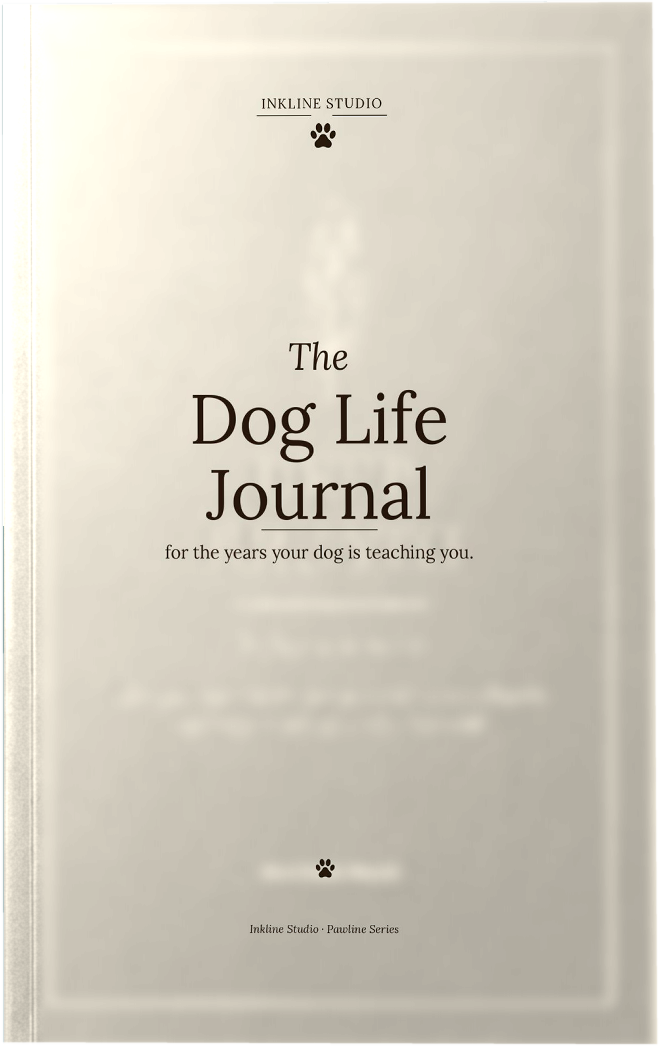
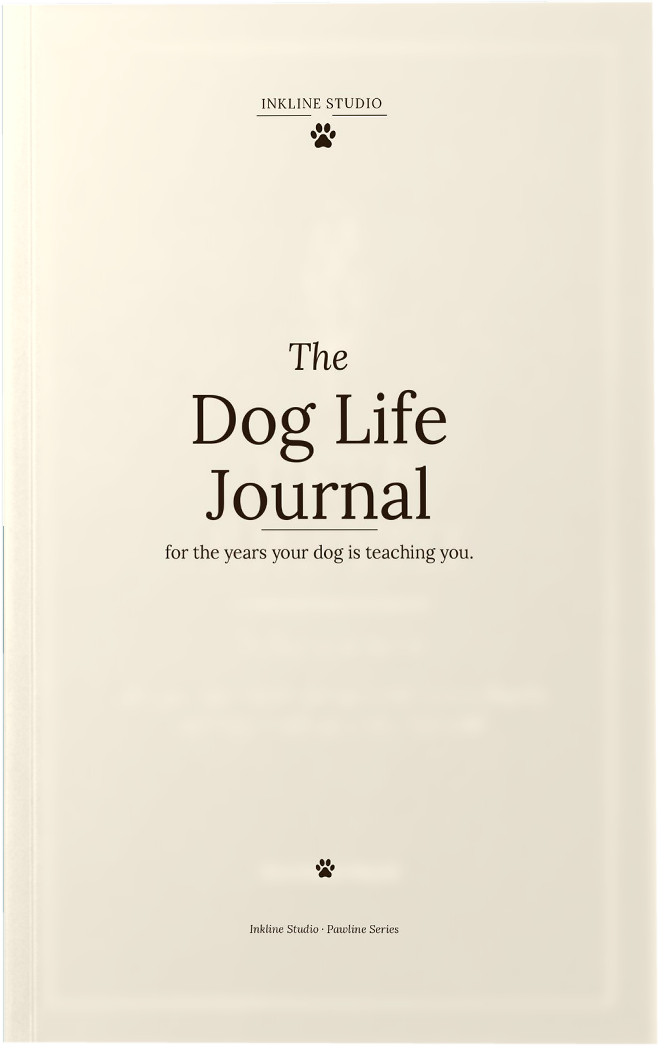
Fix washed-out Pawline covers (cut glare on light covers) + page shadow; add Tinderwick look-inside with real sample jokes

diff --git a/index.html b/index.html
@@ -338,6 +338,8 @@
   .book{ transition: transform .45s cubic-bezier(.2,.7,.2,1); }
   .book:hover{ transform: translateY(-12px); }
   .book-cover img{ transition: filter .45s ease, transform .45s cubic-bezier(.2,.7,.2,1) !important; }
+  /* gentle permanent shadow so covers (esp. pale cream Pawline ones) lift off the cream page */
+  .book-cover img{ filter: drop-shadow(0 13px 20px rgba(27,34,64,0.15)); }
   .book:hover .book-cover img{ filter: drop-shadow(0 30px 44px rgba(27,34,64,0.30)); }
   /* smoother tab-panel entrance */
   .tab-panel.active{ animation: panelIn .6s cubic-bezier(.2,.7,.2,1) both; }
@@ -795,35 +797,50 @@
       <p class="gift-note">The gift that gets a laugh</p>
       <div class="books-grid">
         <div class="book">
-          <div class="book-cover"><img src="images/tinderwick-nurse-3d.png" alt="101 Things Only Nurses Will Find Funny"></div>
+          <div class="book-cover clickable" onclick="openLb('t-nurse')">
+            <img src="images/tinderwick-nurse-3d.png" alt="101 Things Only Nurses Will Find Funny">
+            <div class="peek-hint"><svg width="11" height="11" viewBox="0 0 12 12" fill="none"><circle cx="6" cy="6" r="5" stroke="#F5EFE0" stroke-width="1.2"/><line x1="6" y1="3" x2="6" y2="9" stroke="#F5EFE0" stroke-width="1.2"/><line x1="3" y1="6" x2="9" y2="6" stroke="#F5EFE0" stroke-width="1.2"/></svg><span>Peek inside</span></div>
+          </div>
           <h3>101 Things Only Nurses Will Find Funny</h3>
           <p class="book-hook">For the nurses who carry a lot and deserve to laugh about it.</p>
           <div class="meta">Paperback &middot; &pound;9.99</div>
           <a href="https://www.amazon.co.uk/dp/B0H8SQ6QM7" target="_blank" rel="noopener">Find on Amazon &rarr;</a>
         </div>
         <div class="book">
-          <div class="book-cover"><img src="images/tinderwick-doctor-3d.png" alt="101 Things Only Doctors Will Find Funny"></div>
+          <div class="book-cover clickable" onclick="openLb('t-doctor')">
+            <img src="images/tinderwick-doctor-3d.png" alt="101 Things Only Doctors Will Find Funny">
+            <div class="peek-hint"><svg width="11" height="11" viewBox="0 0 12 12" fill="none"><circle cx="6" cy="6" r="5" stroke="#F5EFE0" stroke-width="1.2"/><line x1="6" y1="3" x2="6" y2="9" stroke="#F5EFE0" stroke-width="1.2"/><line x1="3" y1="6" x2="9" y2="6" stroke="#F5EFE0" stroke-width="1.2"/></svg><span>Peek inside</span></div>
+          </div>
           <h3>101 Things Only Doctors Will Find Funny</h3>
           <p class="book-hook">For everyone who has survived an on-call rota.</p>
           <div class="meta">Paperback &middot; &pound;9.99</div>
           <a href="https://www.amazon.co.uk/dp/B0H8SL6ZH2" target="_blank" rel="noopener">Find on Amazon &rarr;</a>
         </div>
         <div class="book">
-          <div class="book-cover"><img src="images/tinderwick-police-3d.png" alt="101 Things Only Police Officers Will Find Funny"></div>
+          <div class="book-cover clickable" onclick="openLb('t-police')">
+            <img src="images/tinderwick-police-3d.png" alt="101 Things Only Police Officers Will Find Funny">
+            <div class="peek-hint"><svg width="11" height="11" viewBox="0 0 12 12" fill="none"><circle cx="6" cy="6" r="5" stroke="#F5EFE0" stroke-width="1.2"/><line x1="6" y1="3" x2="6" y2="9" stroke="#F5EFE0" stroke-width="1.2"/><line x1="3" y1="6" x2="9" y2="6" stroke="#F5EFE0" stroke-width="1.2"/></svg><span>Peek inside</span></div>
+          </div>
           <h3>101 Things Only Police Officers Will Find Funny</h3>
           <p class="book-hook">For everyone who has survived a night shift.</p>
           <div class="meta">Paperback &middot; &pound;9.99</div>
           <a href="https://www.amazon.co.uk/dp/B0H8SKT2T8" target="_blank" rel="noopener">Find on Amazon &rarr;</a>
         </div>
         <div class="book">
-          <div class="book-cover"><img src="images/tinderwick-paramedic-3d.png" alt="101 Things Only Paramedics Will Find Funny"></div>
+          <div class="book-cover clickable" onclick="openLb('t-paramedic')">
+            <img src="images/tinderwick-paramedic-3d.png" alt="101 Things Only Paramedics Will Find Funny">
+            <div class="peek-hint"><svg width="11" height="11" viewBox="0 0 12 12" fill="none"><circle cx="6" cy="6" r="5" stroke="#F5EFE0" stroke-width="1.2"/><line x1="6" y1="3" x2="6" y2="9" stroke="#F5EFE0" stroke-width="1.2"/><line x1="3" y1="6" x2="9" y2="6" stroke="#F5EFE0" stroke-width="1.2"/></svg><span>Peek inside</span></div>
+          </div>
           <h3>101 Things Only Paramedics Will Find Funny</h3>
           <p class="book-hook">For the first through the door.</p>
           <div class="meta">Paperback &middot; &pound;9.99</div>
           <a href="https://www.amazon.co.uk/dp/B0H8Z4NBYB" target="_blank" rel="noopener">Find on Amazon &rarr;</a>
         </div>
         <div class="book">
-          <div class="book-cover"><img src="images/tinderwick-teacher-3d.png" alt="101 Things Only Teachers Will Find Funny"></div>
+          <div class="book-cover clickable" onclick="openLb('t-teacher')">
+            <img src="images/tinderwick-teacher-3d.png" alt="101 Things Only Teachers Will Find Funny">
+            <div class="peek-hint"><svg width="11" height="11" viewBox="0 0 12 12" fill="none"><circle cx="6" cy="6" r="5" stroke="#F5EFE0" stroke-width="1.2"/><line x1="6" y1="3" x2="6" y2="9" stroke="#F5EFE0" stroke-width="1.2"/><line x1="3" y1="6" x2="9" y2="6" stroke="#F5EFE0" stroke-width="1.2"/></svg><span>Peek inside</span></div>
+          </div>
           <h3>101 Things Only Teachers Will Find Funny</h3>
           <p class="book-hook">For everyone who has survived a Sunday-night marking pile.</p>
           <div class="meta">Paperback &middot; &pound;9.99</div>
@@ -1176,7 +1193,17 @@
     h4: { title: 'Botanical Animals', sub: 'Volume Four · Heather Press', asin: 'B0H3Q79CLY',
       images: ['images/interior/heather/v4-01-hero.jpg','images/interior/heather/v4-02-inside.jpg','images/interior/heather/v4-03-features.jpg'],
       pages: []
-    }
+    },
+    't-nurse': { title: '101 Things Only Nurses Will Find Funny', sub: 'Tinderwick Press', asin: 'B0H8SQ6QM7',
+      images: ['images/interior/tw-nurse-p1.png','images/interior/tw-nurse-p2.png'], pages: [] },
+    't-doctor': { title: '101 Things Only Doctors Will Find Funny', sub: 'Tinderwick Press', asin: 'B0H8SL6ZH2',
+      images: ['images/interior/tw-doctor-p1.png','images/interior/tw-doctor-p2.png'], pages: [] },
+    't-police': { title: '101 Things Only Police Officers Will Find Funny', sub: 'Tinderwick Press', asin: 'B0H8SKT2T8',
+      images: ['images/interior/tw-police-p1.png','images/interior/tw-police-p2.png'], pages: [] },
+    't-paramedic': { title: '101 Things Only Paramedics Will Find Funny', sub: 'Tinderwick Press', asin: 'B0H8Z4NBYB',
+      images: ['images/interior/tw-paramedic-p1.png','images/interior/tw-paramedic-p2.png'], pages: [] },
+    't-teacher': { title: '101 Things Only Teachers Will Find Funny', sub: 'Tinderwick Press', asin: 'B0H8Z2RMZ5',
+      images: ['images/interior/tw-teacher-p1.png','images/interior/tw-teacher-p2.png'], pages: [] }
   };
 
   function openLb(id) {
